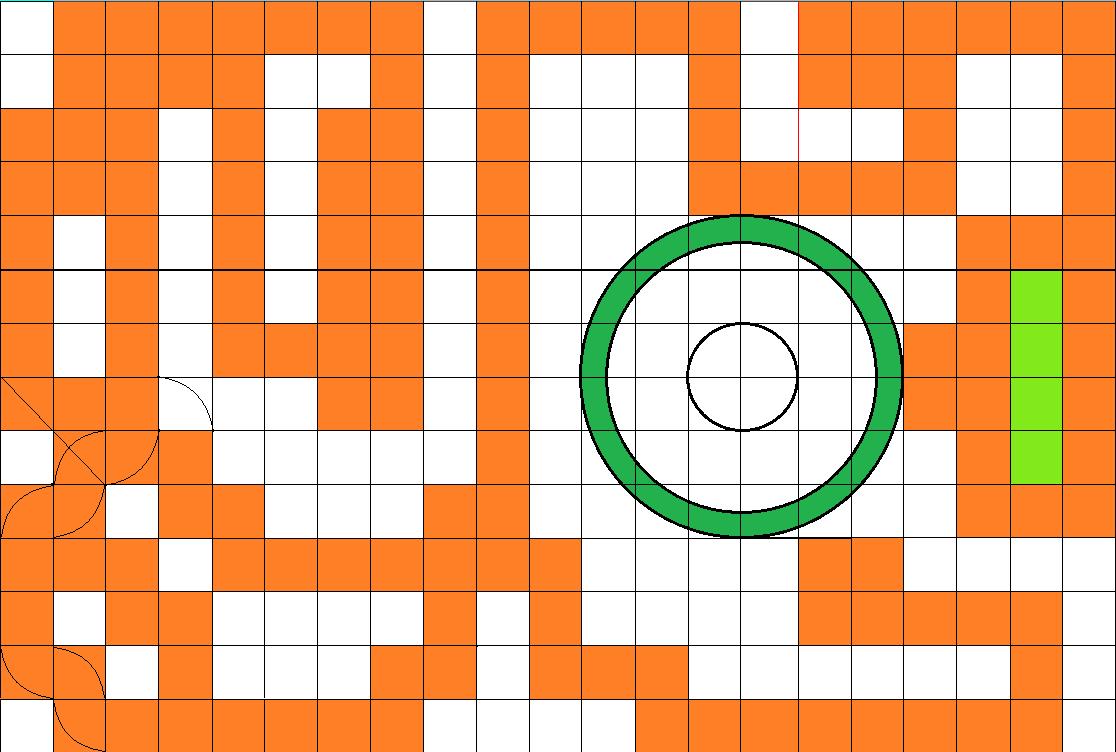
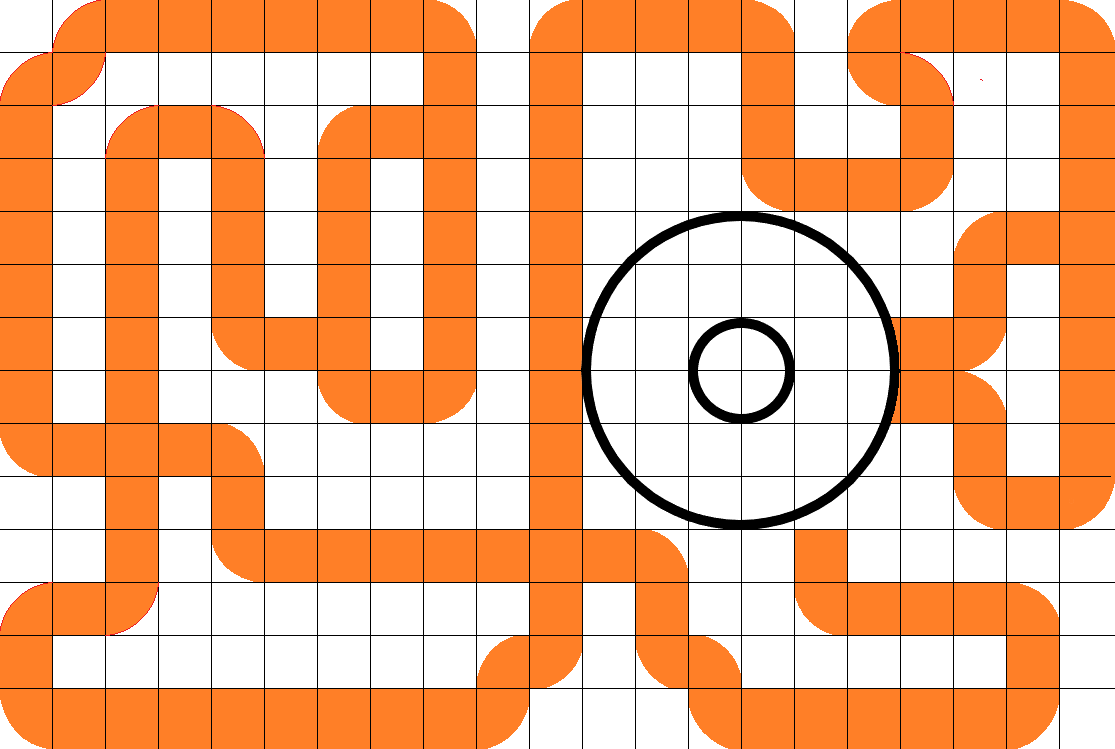
Board
Added new board and array for board class.

diff --git a/Game of Life/src/game/of/life/Board.java b/Game of Life/src/game/of/life/Board.java
@@ -6,7 +6,25 @@ public class Board {
     //updated
     private final static int NUM_ROWS = 14;
     private final static int NUM_COLUMNS = 21;      
-    private static CarToken board[][] = new CarToken[NUM_ROWS][NUM_COLUMNS];
+    private static CarToken car[][] = new CarToken[NUM_ROWS][NUM_COLUMNS];
+    private static boolean board[][];
+    
+        Board(){ 
+            board[0][0] = false;  board[0][1] = true;   board[0][2] = true;   board[0][3] = true;   board[0][4] = true;   board[0][5] = true;   board[0][6] = true;   board[0][7] = true;   board[0][8] = true;   board[0][9] = false;  board[0][10] = true;   board[0][11] = true;   board[0][12] = true;   board[0][13] = true;   board[0][14] = true;   board[0][15] = false;  board[0][16] = true;   board[0][17] = true;   board[0][18] = true;    board[0][19] = true;   board[0][20] = true;
+            board[1][0] = true;   board[1][1] = true;   board[1][2] = false;  board[1][3] = false;  board[1][4] = false;  board[1][5] = false;  board[1][6] = false;  board[1][7] = false;  board[1][8] = true;   board[1][9] = false;  board[1][10] = true;   board[1][11] = false;  board[1][12] = false;  board[1][13] = false;  board[1][14] = true;   board[1][15] = false;  board[1][16] = true;   board[1][17] = true;   board[1][18] = false;   board[1][19] = false;  board[1][20] = true;
+            board[2][0] = true;   board[2][1] = false;  board[2][2] = true;   board[2][3] = true;   board[2][4] = true;   board[2][5] = false;  board[2][6] = true;   board[2][7] = true;   board[2][8] = true;   board[2][9] = false;  board[2][10] = true;   board[2][11] = false;  board[2][12] = false;  board[2][13] = false;  board[2][14] = true;   board[2][15] = false;  board[2][16] = false;  board[2][17] = true;   board[2][18] = false;   board[2][19] = false;  board[2][20] = true;
+            board[3][0] = true;   board[3][1] = false;  board[3][2] = true;   board[3][3] = false;  board[3][4] = true;   board[3][5] = false;  board[3][6] = true;   board[3][7] = false;  board[3][8] = true;   board[3][9] = false;  board[3][10] = true;   board[3][11] = false;  board[3][12] = false;  board[3][13] = false;  board[3][14] = true;   board[3][15] = true;   board[3][16] = true;   board[3][17] = true;   board[3][18] = false;   board[3][19] = false;  board[3][20] = true;
+            board[4][0] = true;   board[4][1] = false;  board[4][2] = true;   board[4][3] = false;  board[4][4] = true;   board[4][5] = false;  board[4][6] = true;   board[4][7] = false;  board[4][8] = true;   board[4][9] = false;  board[4][10] = true;   board[4][11] = false;  board[4][12] = false;  board[4][13] = false;  board[4][14] = false;  board[4][15] = false;  board[4][16] = false;  board[4][17] = false;  board[4][18] = true;    board[4][19] = true;   board[4][20] = true;
+            board[5][0] = true;   board[5][1] = false;  board[5][2] = true;   board[5][3] = false;  board[5][4] = true;   board[5][5] = false;  board[5][6] = true;   board[5][7] = false;  board[5][8] = true;   board[5][9] = false;  board[5][10] = true;   board[5][11] = false;  board[5][12] = false;  board[5][13] = false;  board[5][14] = false;  board[5][15] = false;  board[5][16] = false;  board[5][17] = false;  board[5][18] = true;    board[5][19] = false;  board[5][20] = true;
+            board[6][0] = true;   board[6][1] = false;  board[6][2] = true;   board[6][3] = false;  board[6][4] = true;   board[6][5] = true;   board[6][6] = true;   board[6][7] = false;  board[6][8] = true;   board[6][9] = false;  board[6][10] = true;   board[6][11] = false;  board[6][12] = false;  board[6][13] = false;  board[6][14] = false;  board[6][15] = false;  board[6][16] = false;  board[6][17] = true;   board[6][18] = true;    board[6][19] = false;  board[6][20] = true;
+            board[7][0] = true;   board[7][1] = false;  board[7][2] = true;   board[7][3] = false;  board[7][4] = false;  board[7][5] = false;  board[7][6] = true;   board[7][7] = true;   board[7][8] = true;   board[7][9] = false;  board[7][10] = true;   board[7][11] = false;  board[7][12] = false;  board[7][13] = false;  board[7][14] = false;  board[7][15] = false;  board[7][16] = false;  board[7][17] = true;   board[7][18] = true;    board[7][19] = false;  board[7][20] = true;
+            board[8][0] = true;   board[8][1] = true;   board[8][2] = true;   board[8][3] = true;   board[8][4] = true;   board[8][5] = false;  board[8][6] = false;  board[8][7] = false;  board[8][8] = false;  board[8][9] = false;  board[8][10] = true;   board[8][11] = false;  board[8][12] = false;  board[8][13] = false;  board[8][14] = false;  board[8][15] = false;  board[8][16] = false;  board[8][17] = false;  board[8][18] = true;    board[8][19] = false;  board[8][20] = true;
+            board[9][0] = false;  board[9][1] = false;  board[9][2] = true;   board[9][3] = false;  board[9][4] = true;   board[9][5] = false;  board[9][6] = false;  board[9][7] = false;  board[9][8] = false;  board[9][9] = false;  board[9][10] = true;   board[9][11] = false;  board[9][12] = false;  board[9][13] = false;  board[9][14] = false;  board[9][15] = false;  board[9][16] = false;  board[9][17] = false;  board[9][18] = true;    board[9][19] = true;   board[9][20] = true;
+            board[10][0] = false; board[10][1] = false; board[10][2] = true;  board[10][3] = false; board[10][4] = true;  board[10][5] = true;  board[10][6] = true;  board[10][7] = true;  board[10][8] = true;  board[1][9] = true;   board[1][10] = true;   board[10][11] = true;  board[10][12] = true;  board[10][13] = false; board[10][14] = false; board[10][15] = true;  board[10][16] = false; board[10][17] = false; board[10][18] = false;  board[10][19] = false; board[10][20] = false;
+            board[11][0] = true;  board[11][1] = true;  board[11][2] = true;  board[11][3] = false; board[11][4] = false; board[11][5] = false; board[11][6] = false; board[11][7] = false; board[11][8] = false; board[11][9] = false; board[11][10] = true;  board[11][11] = false; board[11][12] = true;  board[11][13] = false; board[11][14] = false; board[11][15] = true;  board[11][16] = true;  board[11][17] = true;  board[11][18] = true;   board[11][19] = true;  board[11][20] = false;
+            board[12][0] = true;  board[12][1] = false; board[12][2] = false; board[12][3] = false; board[12][4] = false; board[12][5] = false; board[12][6] = false; board[12][7] = false; board[12][8] = false; board[12][9] = true;  board[12][10] = true;  board[12][11] = false; board[12][12] = true;  board[12][13] = true;  board[12][14] = false; board[12][15] = false; board[12][16] = false; board[12][17] = false; board[12][18] = false;  board[12][19] = true;  board[12][20] = false;
+            board[13][0] = true;  board[13][1] = true;  board[13][2] = true;  board[13][3] = true;  board[13][4] = true;  board[13][5] = true;  board[13][6] = true;  board[13][7] = true;  board[13][8] = true;  board[13][9] = true;  board[13][10] = false; board[13][11] = false; board[13][12] = false; board[13][13] = true;  board[13][14] = true;  board[13][15] = true;  board[13][16] = true;  board[13][17] = true;  board[13][18] = true;   board[13][19] = true;  board[13][20] = false;
+        }
     
         public static void AddTokenPixel(int xpixel,int ypixel) {
 
@@ -37,12 +55,14 @@ public class Board {
     }
     
         public static void Draw(Graphics2D g) {
-            Image image =  Toolkit.getDefaultToolkit().getImage("./board.png");    
-            Drawing.drawImage(image, Window.getX(Window.getWidth2()/2), Window.getY(Window.getHeight2()/2), 0.0, 1.0, 1.0);
 //Calculate the width and height of each board square.
         int ydelta = Window.getHeight2()/NUM_ROWS;
         int xdelta = Window.getWidth2()/NUM_COLUMNS;
-        
+        Image board =  Toolkit.getDefaultToolkit().getImage("./board.png");    
+        //Image playerCar1 = Toolkit.getDefaultToolkit().getImage("./board.png");  
+//        if (getCurrentPlayer.jobs)
+        //Drawing.drawImage(playerCar1, Window.getX(xdelta * 17), Window.getY(ydelta * 6), 0.0, 1.0, 1.0);
+        Drawing.drawImage(board, Window.getX(Window.getWidth2()/2), Window.getY(Window.getHeight2()/2), 0.0, 1.0, 1.0);
  //Draw the grid.
         g.setColor(Color.black);
         for (int zi = 1;zi<NUM_ROWS;zi++)

diff --git a/Game of Life/src/game/of/life/Window.java b/Game of Life/src/game/of/life/Window.java
@@ -15,8 +15,8 @@ public class Window {
     private static final int WINDOW_BORDER = 8;
     
     
-    static final int WINDOW_WIDTH = 2*(WINDOW_BORDER + XBORDER) + 800;
-    static final int WINDOW_HEIGHT = YTITLE + WINDOW_BORDER + 600;
+    static final int WINDOW_WIDTH = 2*(WINDOW_BORDER + XBORDER) + 1116;
+    static final int WINDOW_HEIGHT = YTITLE + WINDOW_BORDER + 810;
     static int xsize = -1;
     static int ysize = -1;
 

diff --git a/Game of Life/src/game/of/life/Player.java b/Game of Life/src/game/of/life/Player.java
@@ -1,6 +1,7 @@
 package game.of.life;
 import java.awt.*;
 public class Player {
+    
     final private static int numPlayers = 4;
     private Image car; 
     private int moves;
@@ -23,6 +24,9 @@ public class Player {
             i++;
         }
         currPlayer = players[i+1];
+    }
+    public Player getCurrentPlayer(){
+        return currPlayer;
     }
     
 //    public void move(){
